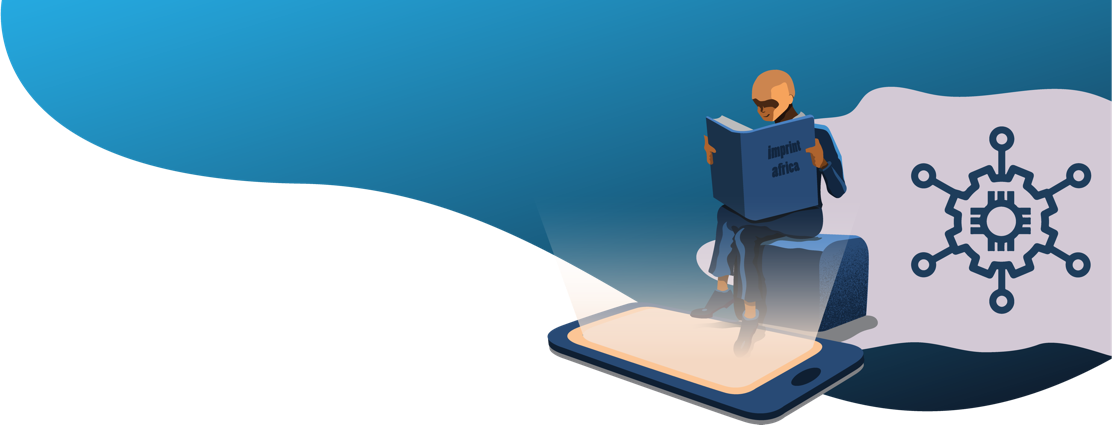
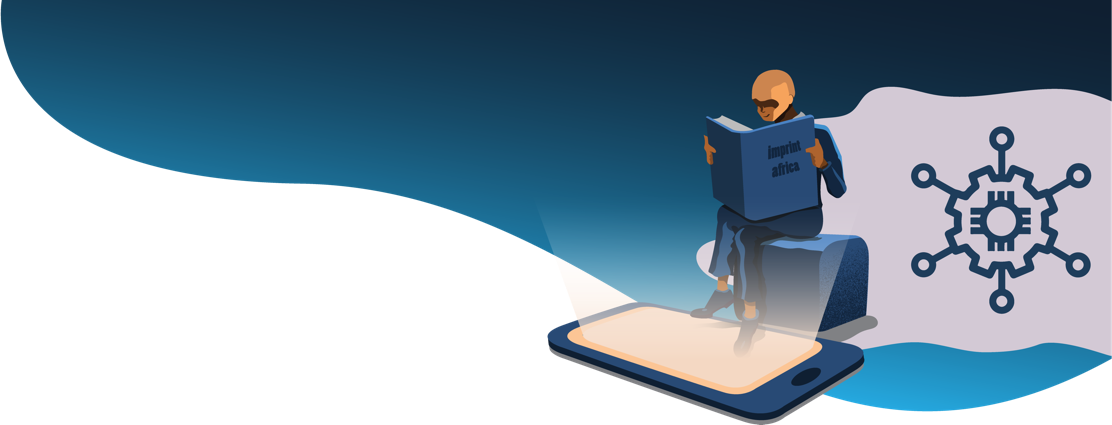
a few styling changes

diff --git a/index.html b/index.html
@@ -340,26 +340,8 @@
             <div class="left_3d">
                 <div class="shap_slider_inner owl-carousel">
                     <div class="item">
-<!--                        <h4>“They are the best”</h4>-->
-<!--                        <p>Etiam nec odio vestibulum est mattis effic iturut magna. Pellentesque sit am et tellus blandit. Etiam nec odio vestibul. Etiam nec odio vestibulum est mattis effic iturut magna. Pellentesque sit am et tellus.</p>-->
-<!--                        <div class="media">-->
-<!--                            <img src="img/team/people/people-5.jpg" alt="">-->
-<!--                            <div class="media-body">-->
-<!--                                <h5>Chriss Turner</h5>-->
-<!--                                <h6>CEO Enterprise</h6>-->
-<!--                            </div>-->
-<!--                        </div>-->
                     </div>
                     <div class="item">
-<!--                        <h4>“They are the best”</h4>-->
-<!--                        <p>Etiam nec odio vestibulum est mattis effic iturut magna. Pellentesque sit am et tellus blandit. Etiam nec odio vestibul. Etiam nec odio vestibulum est mattis effic iturut magna. Pellentesque sit am et tellus.</p>-->
-<!--                        <div class="media">-->
-<!--                            <img src="img/team/people/people-5.jpg" alt="">-->
-<!--                            <div class="media-body">-->
-<!--                                <h5>Chriss Turner</h5>-->
-<!--                                <h6>CEO Enterprise</h6>-->
-<!--                            </div>-->
-<!--                        </div>-->
                     </div>
 
                 </div>
@@ -369,7 +351,6 @@
                     <div class="text_3d">
                         <div class="l_title">
                             <img src="img/icon/title-icon.png" alt="">
-<!--                            <h6>Discover the features</h6>-->
                             <h2>We don’t hide, we stand tall in front of challenge</h2>
                         </div>
                         <p>Imprint Africa does digital differently.<br/>
@@ -377,7 +358,7 @@
                             Our consultation allows us to dig in a little deeper, and we have identified a customized action plan that would allow you to see results you desire.
                     </div>
                     <div class="shap_mobile">
-                        <img src="img/david-01.png" alt="">
+<!--                        <img src="img/david-01.png" alt="">-->
                     </div>
                 </div>
             </div>

diff --git a/css/style.css b/css/style.css
@@ -341,6 +341,7 @@ i:before {
 /*----------------------------------------------------*/
 /* Banner Area css
 ============================================================================================ */
+
 .banner_area_aboutus {
   position: relative;
   z-index: 3;
@@ -622,7 +623,7 @@ i:before {
 /* Feature Area css
 ============================================================================================ */
 .feature_area {
-  padding-top: 170px;
+  padding-top: 50px;
 }
 
 .feature_item {
@@ -726,7 +727,7 @@ i:before {
 ============================================================================================ */
 .team_people_area {
   overflow: hidden;
-  padding-top: 90px;
+  padding-top: 0;
 }
 
 .team_people_text {
@@ -1178,24 +1179,26 @@ i:before {
 /* Best 3d Area css
 ============================================================================================ */
 .best_3d_area {
+  background: url(../img/gol-01.png) no-repeat scroll center center;
   overflow: hidden;
   display: -webkit-box;
   display: -ms-flexbox;
   display: flex;
-  min-height: 887px;
+  max-width: 1600px;
+  min-height: 608px;
   padding-top: 20px;
 }
 
 .best_3d_area .left_3d {
-  background: url(../img/goliath-01.png) no-repeat scroll center center;
+  /*background: url(../img/goliath-01.png) no-repeat scroll center center;*/
   width: calc(50% - 100px);
   float: left;
   position: relative;
 }
 
 .best_3d_area .left_3d:before {
-  content: "";
-  background: url(../img/goliath-01.png) no-repeat scroll center center;
+  /*content: "";*/
+  /*background: url(../img/goliath-01.png) no-repeat scroll center center;*/
   background-size: cover;
   min-height: 100%;
   position: absolute;

diff --git a/about-us.html b/about-us.html
@@ -87,8 +87,6 @@
                         <div class="challange_text_inner">
                             <div class="l_title">
                                 <img src="img/icon/title-icon.png" alt="">
-<!--                                <h6>Discover the features</h6>-->
-<!--                                <h2>We don’t hide, we stand tall in front of chalenge</h2>-->
                             </div>
                             <p>
                                 We collaborate with our clients in unlocking their brand potential through digital marketing. Our highly skilled digital experts are able to provide 360-degree coverage thus content creation, branding, digital strategy, coaching, website design and business development. Our team brings on board a combined experience of over 15 years in the hospitality, medical, beauty, entertainment, corporate and real estate sectors. With a growing reputation in brand building and digital marketing expertise, Imprint Africa aims to continue disrupting the African digital and creative industry.
